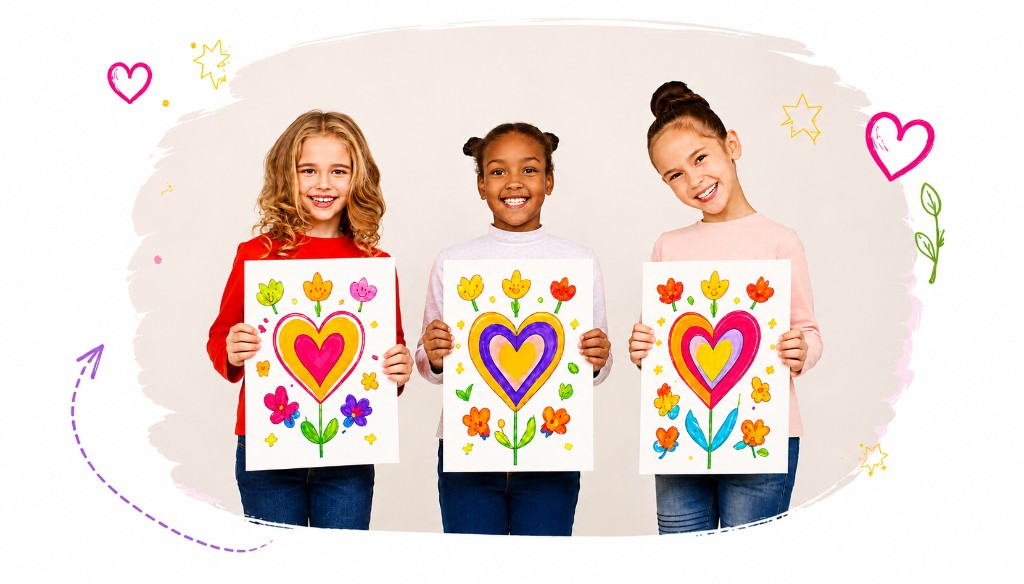
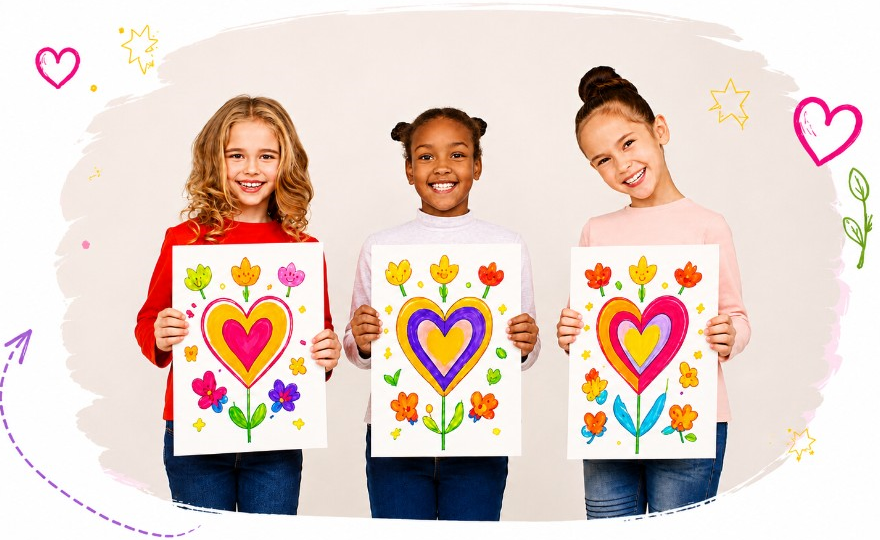
hhhhhhh

diff --git a/assets/css/style.css b/assets/css/style.css
@@ -21941,31 +21941,28 @@ body.newsletter-success-open {
     width: 100%;
     min-width: 0;
     position: relative;
-    overflow: hidden;
+    overflow: visible;
     margin-right: 0;
     padding-right: 0;
   }
 
   .page-hero.home-hero .home-hero__media .lazy-img-wrap {
-    overflow: hidden;
+    overflow: visible;
     width: 100%;
-    display: flex;
-    align-items: center;
-    justify-content: flex-end;
+    display: block;
     margin-right: 0;
     padding-right: 0;
   }
 
-  /* Flush to right edge — scale past PNG whitespace, clip with overflow hidden */
   .page-hero.home-hero .home-hero__banner {
-    width: 115%;
-    max-width: none;
-    height: auto;
-    max-height: min(540px, 60vh);
-    object-fit: contain;
-    object-position: right center;
-    transform: none;
-    margin-right: 0;
     display: block;
+    width: 100%;
+    max-width: 100%;
+    height: auto;
+    max-height: none;
+    object-fit: contain;
+    object-position: center center;
+    transform: none;
+    margin: 0;
   }
 }
